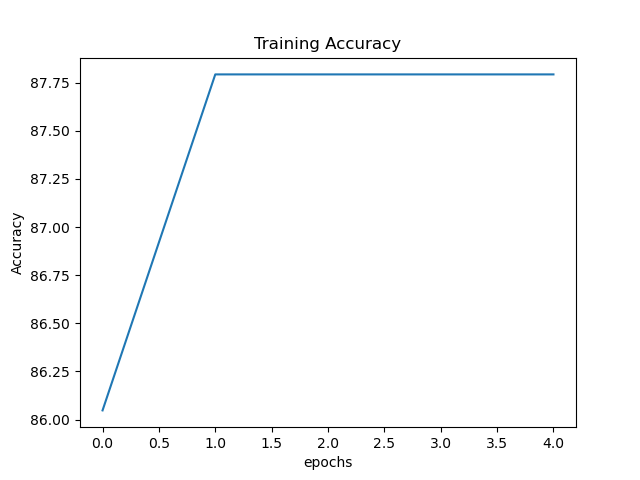
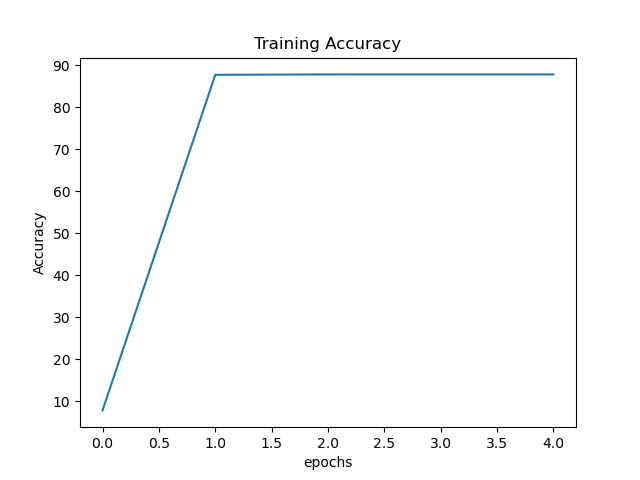
finish CNN stuff!

diff --git a/model.py b/model.py
@@ -9,13 +9,18 @@ import numpy as np
 import torch
 import torchvision
 import torchvision.transforms as transforms
+import torch.nn.functional as F
 import torch.nn as nn
 import torch.optim as optim
 import os
 
-from skimage import io, transform
 from torch.utils.data import Dataset
 from torchvision import utils
+
+from PIL import Image
+
+from models.convbasic import ConvNeuralNet
+from models.plainnet import PlainNet
 
 '''
 Creating a Custom Image Dataset
@@ -36,7 +41,8 @@ class ImageDataset(Dataset):
         dalle_imgs = (os.listdir('data/' + type_path + '/dalle'))
         for image in dalle_imgs:
             img_name = 'data/' + type_path + '/dalle/' + image
-            torch_img = io.imread(img_name)
+            torch_img = Image.open(img_name)
+            #torch_img = io.imread(img_name)
             if (self.transform):
                 torch_img = self.transform(torch_img)
             sample = {'image': torch_img, 'label': 1}
@@ -46,7 +52,8 @@ class ImageDataset(Dataset):
         non_dalle_imgs = (os.listdir('data/' + type_path + '/non-dalle'))
         for image in non_dalle_imgs:
             img_name = 'data/' + type_path + '/non-dalle/' + image
-            torch_img = io.imread(img_name)
+            torch_img = Image.open(img_name)
+            #torch_img = io.imread(img_name)
             if (self.transform):
                 torch_img = self.transform(torch_img)
             sample = {'image': torch_img, 'label': 0}
@@ -57,26 +64,6 @@ class ImageDataset(Dataset):
 
     def __getitem__(self, id):
         return (self.all_data[id]["image"], self.all_data[id]["label"])
-
-'''
-Creating a Neural Network
-'''
-class Net(nn.Module):
-    def __init__(self):
-        super(Net, self).__init__()
-        self.flatten = nn.Flatten()
-        self.linear_relu_stack = nn.Sequential(
-            nn.Linear(250*250, 512),
-            nn.ReLU(),
-            nn.Linear(512, 512),
-            nn.ReLU(),
-            nn.Linear(512, 10),
-        )
-
-    def forward(self, x):
-        x = self.flatten(x)
-        logits = self.linear_relu_stack(x)
-        return logits
 
 '''
 Create plots for training and test accuracies for several epochs.
@@ -91,16 +78,16 @@ def plot_metrics(metric_set, metric_name, save_path):
 '''
 Training the model!
 '''
-def train_model(transform, batch_size, epochs):
+def train_model(transform, batch_size, epochs, weights_path):
     # Loading in initial training data
     print("Loading in training data...")
-    train_data = ImageDataset(type_path="train", transform=transform)
+    train_data = ImageDataset(type_path="test", transform=transform)
     trainloader = torch.utils.data.DataLoader(train_data, batch_size=batch_size,
                                             shuffle=True)
     print("Done loading in training data.\n")
 
     # Creating the CNN, loss function, and optimizer
-    net = Net()
+    net = ConvNeuralNet()
     criterion = nn.CrossEntropyLoss()
     optimizer = optim.SGD(net.parameters(), lr=0.001, momentum=0.9)
 
@@ -146,12 +133,11 @@ def train_model(transform, batch_size, epochs):
 
     # Saving trained model
     print("Finished Training!\n")
-    PATH = 'weights/initial_training.pth'
-    torch.save(net.state_dict(), PATH)
+    torch.save(net.state_dict(), weights_path)
 
     # Graph out training loss and accuracy over time
-    plot_metrics(training_losses, 'Loss', 'training_loss.png')
-    plot_metrics(training_accuracies, 'Accuracy', 'training_accuracies.png')
+    plot_metrics(training_losses, 'Loss', 'cnn_training_loss.png')
+    plot_metrics(training_accuracies, 'Accuracy', 'cnn_training_accuracies.png')
 
 '''
 Testing the model!
@@ -169,7 +155,7 @@ def test_model(transform, weights_path, batch_size):
     images, labels = next(dataiter)
 
     # Loading in a new example of the neural net, and loading in the weights
-    net = Net()
+    net = ConvNeuralNet()
     net.load_state_dict(torch.load(weights_path))
 
     # Getting accuracy of the data
@@ -194,17 +180,20 @@ Main hub of setting the hyperparameters, and then calling training and testing f
 '''
 def main():
     # Transform and batch size
-    transform = transforms.Compose(
+    '''transform = transforms.Compose(
         [transforms.ToTensor(),
         transforms.Grayscale(num_output_channels=1),
-        transforms.CenterCrop(250)])
+        transforms.CenterCrop(250)])'''
+    transform = transforms.Compose(
+    [ transforms.Grayscale(num_output_channels=3),
+        transforms.CenterCrop(250),
+        transforms.ToTensor(),
+     transforms.Normalize((0.5, 0.5, 0.5), (0.5, 0.5, 0.5))])
     batch_size = 200
 
-    # Training the model
-    train_model(transform=transform, batch_size=batch_size, epochs=5)
-
-    # Testing the model
-    PATH = 'weights/initial_training.pth'
+    # Training and testing the model
+    PATH = 'weights/cnn_training.pth'
+    train_model(transform=transform, batch_size=batch_size, epochs=5, weights_path=PATH)
     test_model(transform, PATH, batch_size)
 
 if __name__ == '__main__':

diff --git a/models/convbasic.py b/models/convbasic.py
@@ -1,0 +1,27 @@
+'''
+Playing around with a simple Convolutional Neural Net architecture
+'''
+# Necessary Libraries
+import torch
+import torch.nn as nn
+import torch.nn.functional as F
+
+# Class Definition
+class ConvNeuralNet(nn.Module):
+    def __init__(self):
+        super().__init__()
+        self.conv1 = nn.Conv2d(3, 6, 5)
+        self.pool = nn.MaxPool2d(2, 2)
+        self.conv2 = nn.Conv2d(6, 16, 5)
+        self.fc1 = nn.Linear(55696, 120)
+        self.fc2 = nn.Linear(120, 84)
+        self.fc3 = nn.Linear(84, 10)
+
+    def forward(self, x):
+        x = self.pool(F.relu(self.conv1(x)))
+        x = self.pool(F.relu(self.conv2(x)))
+        x = torch.flatten(x, 1) # flatten all dimensions except batch
+        x = F.relu(self.fc1(x))
+        x = F.relu(self.fc2(x))
+        x = self.fc3(x)
+        return x

diff --git a/models/plainnet.py b/models/plainnet.py
@@ -1,0 +1,23 @@
+'''
+Creating a Neural Network
+'''
+# Necessary Libraries
+import torch.nn as nn
+
+# Class Definition
+class PlainNet(nn.Module):
+    def __init__(self):
+        super(Net, self).__init__()
+        self.flatten = nn.Flatten()
+        self.linear_relu_stack = nn.Sequential(
+            nn.Linear(250*250, 512),
+            nn.ReLU(),
+            nn.Linear(512, 512),
+            nn.ReLU(),
+            nn.Linear(512, 10),
+        )
+
+    def forward(self, x):
+        x = self.flatten(x)
+        logits = self.linear_relu_stack(x)
+        return logits
